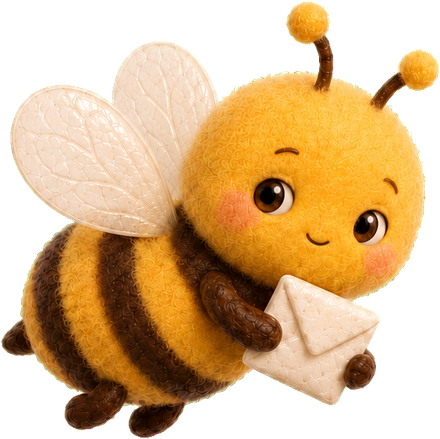
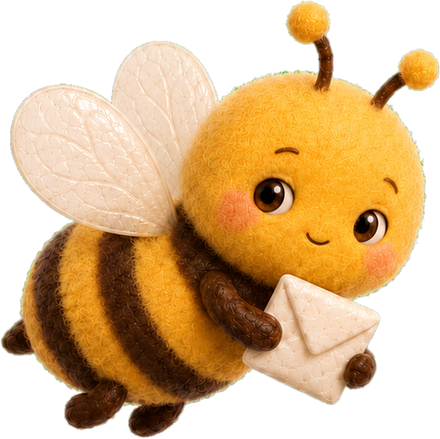
rebrand: Posty World is Postmello
Copy and metadata across every page, plus the favicon and the bee
mascot, swapped for the Postmello art.

CNAME still pins buzzybox.app — the in-app Terms and Privacy links
point at this domain, so moving it is a separate decision.

diff --git a/privacy.html b/privacy.html
@@ -3,16 +3,16 @@
 <head>
   <meta charset="utf-8" />
   <meta name="viewport" content="width=device-width, initial-scale=1" />
-  <title>Posty World — Privacy Policy</title>
-  <meta name="description" content="How Posty World collects, uses, and protects your information." />
+  <title>Postmello — Privacy Policy</title>
+  <meta name="description" content="How Postmello collects, uses, and protects your information." />
   <link rel="icon" type="image/png" href="assets/favicon.png" />
   <link rel="stylesheet" href="styles.css" />
 </head>
 <body>
   <header class="site-head">
     <a href="index.html" style="display:flex;align-items:center;gap:12px;">
-      <img src="assets/favicon.png" alt="Posty World app icon" />
-      <span class="name">Posty World</span>
+      <img src="assets/favicon.png" alt="Postmello app icon" />
+      <span class="name">Postmello</span>
     </a>
     <nav>
       <a href="support.html">Help</a>
@@ -26,9 +26,9 @@
       <h1>Privacy Policy</h1>
       <p class="updated">Last updated: June 24, 2026</p>
 
-      <p>Posty World (“we,” “us,” “our”) makes a cozy iPad app for writing and exchanging handwritten letters with a small circle of approved contacts. We care deeply about privacy — especially because families and children use Posty World. This policy explains what we collect, why, and the choices you have.</p>
+      <p>Postmello (“we,” “us,” “our”) makes a cozy iPad app for writing and exchanging handwritten letters with a small circle of approved contacts. We care deeply about privacy — especially because families and children use Postmello. This policy explains what we collect, why, and the choices you have.</p>
 
-      <!-- REVIEW: confirm the legal entity name (e.g. "Posty World LLC") and hosting region before publishing. -->
+      <!-- REVIEW: confirm the legal entity name (e.g. "Postmello LLC") and hosting region before publishing. -->
 
       <h2>The short version</h2>
       <ul>
@@ -44,7 +44,7 @@
         <li><strong>Profile and desk details.</strong> Display names, nicknames, icons, and contact labels you create for desks and mailboxes inside the app.</li>
         <li><strong>Letter content.</strong> The handwritten letters, drawings, and stationery you create, and the records needed to deliver them to your approved contacts.</li>
         <li><strong>Contacts.</strong> The approved connections that determine who may exchange letters with whom.</li>
-        <li><strong>Diagnostic information.</strong> Limited technical and usage information (such as app version and error reports) that helps us keep Posty World reliable.</li>
+        <li><strong>Diagnostic information.</strong> Limited technical and usage information (such as app version and error reports) that helps us keep Postmello reliable.</li>
       </ul>
 
       <h2>How we use information</h2>
@@ -54,10 +54,10 @@
         <li>To provide customer support and respond to your requests.</li>
         <li>To diagnose problems, prevent abuse, and improve the app.</li>
       </ul>
-      <p>We use diagnostic and analytics information only to understand reliability and improve Posty World. We do not use it to advertise to you or to build marketing profiles, and we do not sell it.</p>
+      <p>We use diagnostic and analytics information only to understand reliability and improve Postmello. We do not use it to advertise to you or to build marketing profiles, and we do not sell it.</p>
 
       <h2>Children's privacy</h2>
-      <p>Posty World is intended to be used under the involvement of a parent or guardian. An adult account owner creates the account, approves every contact, and can review or remove content and connections at any time. By design, a child can only exchange letters with contacts an adult has approved — unapproved mail, incoming or outgoing, is not possible.</p>
+      <p>Postmello is intended to be used under the involvement of a parent or guardian. An adult account owner creates the account, approves every contact, and can review or remove content and connections at any time. By design, a child can only exchange letters with contacts an adult has approved — unapproved mail, incoming or outgoing, is not possible.</p>
       <p>We do not knowingly use children's personal information for advertising or sell it. If you are a parent or guardian and would like to review, correct, or delete information associated with your account or your child, contact us at <a href="mailto:pamihood@gmail.com">pamihood@gmail.com</a> and we will help.</p>
       <!-- REVIEW: if you submit to the App Store "Kids" category, confirm any analytics SDK in the shipping build is permitted under Apple's Kids Category rules (no third-party advertising; analytics must not transmit PII to third parties). -->
 
@@ -65,7 +65,7 @@
       <p>We do not sell your personal information. We share information only in these limited ways:</p>
       <ul>
         <li><strong>With your approved contacts.</strong> A letter you send is delivered to the contact you addressed it to.</li>
-        <li><strong>With service providers</strong> who help us run Posty World — for example, our cloud hosting, database, storage, and authentication providers — who process data on our behalf under appropriate confidentiality and security obligations.</li>
+        <li><strong>With service providers</strong> who help us run Postmello — for example, our cloud hosting, database, storage, and authentication providers — who process data on our behalf under appropriate confidentiality and security obligations.</li>
         <li><strong>For legal reasons</strong>, if required by law or to protect the safety of our users and the service.</li>
       </ul>
       <!-- REVIEW: name your actual subprocessors here if you want to be explicit, e.g. Supabase (hosting/database/storage/auth), Apple, Google. -->
@@ -95,7 +95,7 @@
       <a href="privacy.html">Privacy Policy</a>
       <a href="terms.html">Terms</a>
     </nav>
-    <span class="fine">© 2026 Posty World · Made with care for letter-writers everywhere.</span>
+    <span class="fine">© 2026 Postmello · Made with care for letter-writers everywhere.</span>
   </footer>
 </body>
 </html>

diff --git a/terms.html b/terms.html
@@ -3,16 +3,16 @@
 <head>
   <meta charset="utf-8" />
   <meta name="viewport" content="width=device-width, initial-scale=1" />
-  <title>Posty World — Terms of Use</title>
-  <meta name="description" content="The terms for using Posty World." />
+  <title>Postmello — Terms of Use</title>
+  <meta name="description" content="The terms for using Postmello." />
   <link rel="icon" type="image/png" href="assets/favicon.png" />
   <link rel="stylesheet" href="styles.css" />
 </head>
 <body>
   <header class="site-head">
     <a href="index.html" style="display:flex;align-items:center;gap:12px;">
-      <img src="assets/favicon.png" alt="Posty World app icon" />
-      <span class="name">Posty World</span>
+      <img src="assets/favicon.png" alt="Postmello app icon" />
+      <span class="name">Postmello</span>
     </a>
     <nav>
       <a href="support.html">Help</a>
@@ -26,15 +26,15 @@
       <h1>Terms of Use</h1>
       <p class="updated">Last updated: June 24, 2026</p>
 
-      <p>Welcome to Posty World. By using the Posty World app, you agree to these terms. Please read them, and our <a href="privacy.html">Privacy Policy</a>, carefully.</p>
+      <p>Welcome to Postmello. By using the Postmello app, you agree to these terms. Please read them, and our <a href="privacy.html">Privacy Policy</a>, carefully.</p>
 
-      <h2>Who can use Posty World</h2>
+      <h2>Who can use Postmello</h2>
       <p>An adult (18 or older) must create and manage the account. The account owner is responsible for approving contacts and for supervising children who use a desk or mailbox under the account.</p>
 
       <h2>Using the app responsibly</h2>
       <ul>
-        <li>Use Posty World only for personal, lawful letter-writing between approved contacts.</li>
-        <li>Do not use Posty World to harass, harm, or send abusive, unlawful, or inappropriate content.</li>
+        <li>Use Postmello only for personal, lawful letter-writing between approved contacts.</li>
+        <li>Do not use Postmello to harass, harm, or send abusive, unlawful, or inappropriate content.</li>
         <li>Do not attempt to disrupt, reverse-engineer, or gain unauthorized access to the service.</li>
       </ul>
 
@@ -42,10 +42,10 @@
       <p>The letters and drawings you create are yours. You grant us the limited permission needed to store and deliver them to your approved contacts and to operate the service. You're responsible for the content you send.</p>
 
       <h2>Availability</h2>
-      <p>Posty World is provided “as is.” We work hard to keep it reliable and to protect your letters, but we can't guarantee the service will always be available or error-free.</p>
+      <p>Postmello is provided “as is.” We work hard to keep it reliable and to protect your letters, but we can't guarantee the service will always be available or error-free.</p>
 
       <h2>Changes</h2>
-      <p>We may update these terms from time to time. Continued use of Posty World after changes take effect means you accept the updated terms.</p>
+      <p>We may update these terms from time to time. Continued use of Postmello after changes take effect means you accept the updated terms.</p>
 
       <h2>Contact</h2>
       <div class="contact-box">
@@ -60,7 +60,7 @@
       <a href="privacy.html">Privacy Policy</a>
       <a href="terms.html">Terms</a>
     </nav>
-    <span class="fine">© 2026 Posty World · Made with care for letter-writers everywhere.</span>
+    <span class="fine">© 2026 Postmello · Made with care for letter-writers everywhere.</span>
   </footer>
 </body>
 </html>

diff --git a/letter/index.html b/letter/index.html
@@ -6,7 +6,7 @@
   <meta name="robots" content="noindex, nofollow" />
   <meta name="referrer" content="no-referrer" />
   <link rel="icon" type="image/png" href="/assets/favicon.png" />
-  <title>Your Posty World letter</title>
+  <title>Your Postmello letter</title>
   <style>
     :root { color-scheme: light; }
     body {
@@ -86,7 +86,7 @@
 <body>
   <header class="brand">
     <img src="/assets/favicon.png" alt="" />
-    <span>Posty World</span>
+    <span>Postmello</span>
   </header>
   <main id="main">
     <div class="quiet" id="loading">
@@ -96,7 +96,7 @@
   <script>
     (function () {
       // The private token is the credential; this page just renders the
-      // payload from the Posty World letter service. Served from buzzybox.app
+      // payload from the Postmello letter service. Served from buzzybox.app
       // because Supabase does not render HTML on its shared functions domain.
       var ENDPOINT = 'https://jbrxtkedjahpbzrqxeos.supabase.co/functions/v1/letter-page';
       var main = document.getElementById('main');
@@ -139,8 +139,8 @@
           section.appendChild(el('h2', { text: 'Write back to ' + data.from_name }));
           var ol = el('ol');
           ['On an iPad, download Apple\u2019s TestFlight app from the App Store.',
-           'Tap \u201cGet Posty World\u201d below to install Posty World with our TestFlight link.',
-           'Open Posty World and create or pick a desk.',
+           'Tap \u201cGet Postmello\u201d below to install Postmello with our TestFlight link.',
+           'Open Postmello and create or pick a desk.',
            'Enter ' + data.from_name + '\u2019s connect code below.',
            'Wait for ' + data.from_name + '\u2019s side to approve.'
           ].forEach(function (step) { ol.appendChild(el('li', { text: step })); });
@@ -152,7 +152,7 @@
           var appUrl = data.get_app_url || testflightUrl;
           section.appendChild(el('div', { 'class': 'actions' }, [
             copy,
-            el('a', { 'class': 'get-app', href: appUrl, text: 'Get Posty World' }),
+            el('a', { 'class': 'get-app', href: appUrl, text: 'Get Postmello' }),
           ]));
           section.appendChild(el('p', { 'class': 'hint',
             text: 'Entering the code only asks to connect \u2014 ' + data.from_name + '\u2019s side still approves it.' }));
@@ -160,10 +160,10 @@
             // The QR asset encodes exactly this URL; hide it if the env
             // ever repoints the button (e.g. App Store launch).
             section.appendChild(el('p', { 'class': 'hint',
-              text: 'Not on the iPad right now? Open this letter on the iPad and tap \u201cGet Posty World\u201d there \u2014 or point the iPad\u2019s camera at this code:' }));
+              text: 'Not on the iPad right now? Open this letter on the iPad and tap \u201cGet Postmello\u201d there \u2014 or point the iPad\u2019s camera at this code:' }));
             section.appendChild(el('div', { 'class': 'qr' }, [
               el('img', { src: '/assets/testflight-qr.png', width: '156', height: '156',
-                alt: 'QR code that opens the Posty World TestFlight invite' }),
+                alt: 'QR code that opens the Postmello TestFlight invite' }),
             ]));
           }
           main.appendChild(section);

diff --git a/support.html b/support.html
@@ -3,16 +3,16 @@
 <head>
   <meta charset="utf-8" />
   <meta name="viewport" content="width=device-width, initial-scale=1" />
-  <title>Posty World — Help</title>
-  <meta name="description" content="Get help with Posty World. Contact our support team and find answers to common questions." />
+  <title>Postmello — Help</title>
+  <meta name="description" content="Get help with Postmello. Contact our support team and find answers to common questions." />
   <link rel="icon" type="image/png" href="assets/favicon.png" />
   <link rel="stylesheet" href="styles.css" />
 </head>
 <body>
   <header class="site-head">
     <a href="index.html" style="display:flex;align-items:center;gap:12px;">
-      <img src="assets/favicon.png" alt="Posty World app icon" />
-      <span class="name">Posty World</span>
+      <img src="assets/favicon.png" alt="Postmello app icon" />
+      <span class="name">Postmello</span>
     </a>
     <nav>
       <a href="support.html">Help</a>
@@ -33,11 +33,11 @@
 
       <h2>Common questions</h2>
 
-      <h2 style="font-size:1.1rem;">Who is Posty World for?</h2>
-      <p>Posty World is a cozy iPad app for writing and receiving real handwritten letters with a small circle of trusted contacts. An admin sets up the account and approves who can exchange letters.</p>
+      <h2 style="font-size:1.1rem;">Who is Postmello for?</h2>
+      <p>Postmello is a cozy iPad app for writing and receiving real handwritten letters with a small circle of trusted contacts. An admin sets up the account and approves who can exchange letters.</p>
 
       <h2 style="font-size:1.1rem;">How do I add or approve a contact?</h2>
-      <p>Open the Admin area inside the app (the Posty World Key) to invite, approve, or remove contacts. Letters can only travel between contacts that have been approved on both sides.</p>
+      <p>Open the Admin area inside the app (the Postmello Key) to invite, approve, or remove contacts. Letters can only travel between contacts that have been approved on both sides.</p>
 
       <h2 style="font-size:1.1rem;">How do I delete my account or a letter?</h2>
       <p>You can remove letters from inside the app. To delete your account and associated data entirely, email <a href="mailto:pamihood@gmail.com">pamihood@gmail.com</a> from the address on your account and we'll take care of it. See our <a href="privacy.html">Privacy Policy</a> for details on what we store.</p>
@@ -53,7 +53,7 @@
       <a href="privacy.html">Privacy Policy</a>
       <a href="terms.html">Terms</a>
     </nav>
-    <span class="fine">© 2026 Posty World · Made with care for letter-writers everywhere.</span>
+    <span class="fine">© 2026 Postmello · Made with care for letter-writers everywhere.</span>
   </footer>
 </body>
 </html>

diff --git a/index.html b/index.html
@@ -3,11 +3,11 @@
 <head>
   <meta charset="utf-8" />
   <meta name="viewport" content="width=device-width, initial-scale=1" />
-  <title>Posty World — One letter at a time</title>
-  <meta name="description" content="Posty World is a quiet iPad app for writing, sending, and rereading real letters with a small circle of approved contacts." />
+  <title>Postmello — One letter at a time</title>
+  <meta name="description" content="Postmello is a quiet iPad app for writing, sending, and rereading real letters with a small circle of approved contacts." />
   <link rel="icon" type="image/png" href="assets/favicon.png" />
   <link rel="apple-touch-icon" href="assets/favicon.png" />
-  <meta property="og:title" content="Posty World" />
+  <meta property="og:title" content="Postmello" />
   <meta property="og:description" content="One letter at a time." />
   <meta property="og:image" content="assets/app-desk.jpg" />
   <meta property="og:type" content="website" />
@@ -15,8 +15,8 @@
 </head>
 <body>
   <header class="site-head">
-    <img src="assets/favicon.png" alt="Posty World app icon" />
-    <span class="name">Posty World</span>
+    <img src="assets/favicon.png" alt="Postmello app icon" />
+    <span class="name">Postmello</span>
     <nav>
       <a href="support.html">Help</a>
       <a href="privacy.html">Privacy</a>
@@ -38,7 +38,7 @@
 
     <figure class="shot">
       <img src="assets/app-desk.jpg"
-           alt="Posty World running on an iPad Air — a mailbox with mail waiting, a stack of paper and pen, and a row of named drawers"
+           alt="Postmello running on an iPad Air — a mailbox with mail waiting, a stack of paper and pen, and a row of named drawers"
            width="1800" height="1389" />
     </figure>
 
@@ -122,7 +122,7 @@
       <a href="privacy.html">Privacy Policy</a>
       <a href="terms.html">Terms</a>
     </nav>
-    <span class="fine">© 2026 Posty World · For letter-writers everywhere.</span>
+    <span class="fine">© 2026 Postmello · For letter-writers everywhere.</span>
   </footer>
 </body>
 </html>

diff --git a/styles.css b/styles.css
@@ -1,4 +1,4 @@
-/* Posty World — marketing + legal site.
+/* Postmello — marketing + legal site.
  *
  * One palette across all three surfaces (this site, the letter page, the
  * letter email): warm paper, mailbox red, bee honey. The old site ran a

diff --git a/README.md b/README.md
@@ -1,6 +1,6 @@
-# Posty World website
+# Postmello website
 
-Static marketing + legal site for [Posty World](https://buzzybox.app), the cozy iPad app for handwritten letters.
+Static marketing + legal site for [Postmello](https://buzzybox.app), the cozy iPad app for handwritten letters.
 
 Served via **GitHub Pages** at the apex domain `buzzybox.app`.
 
